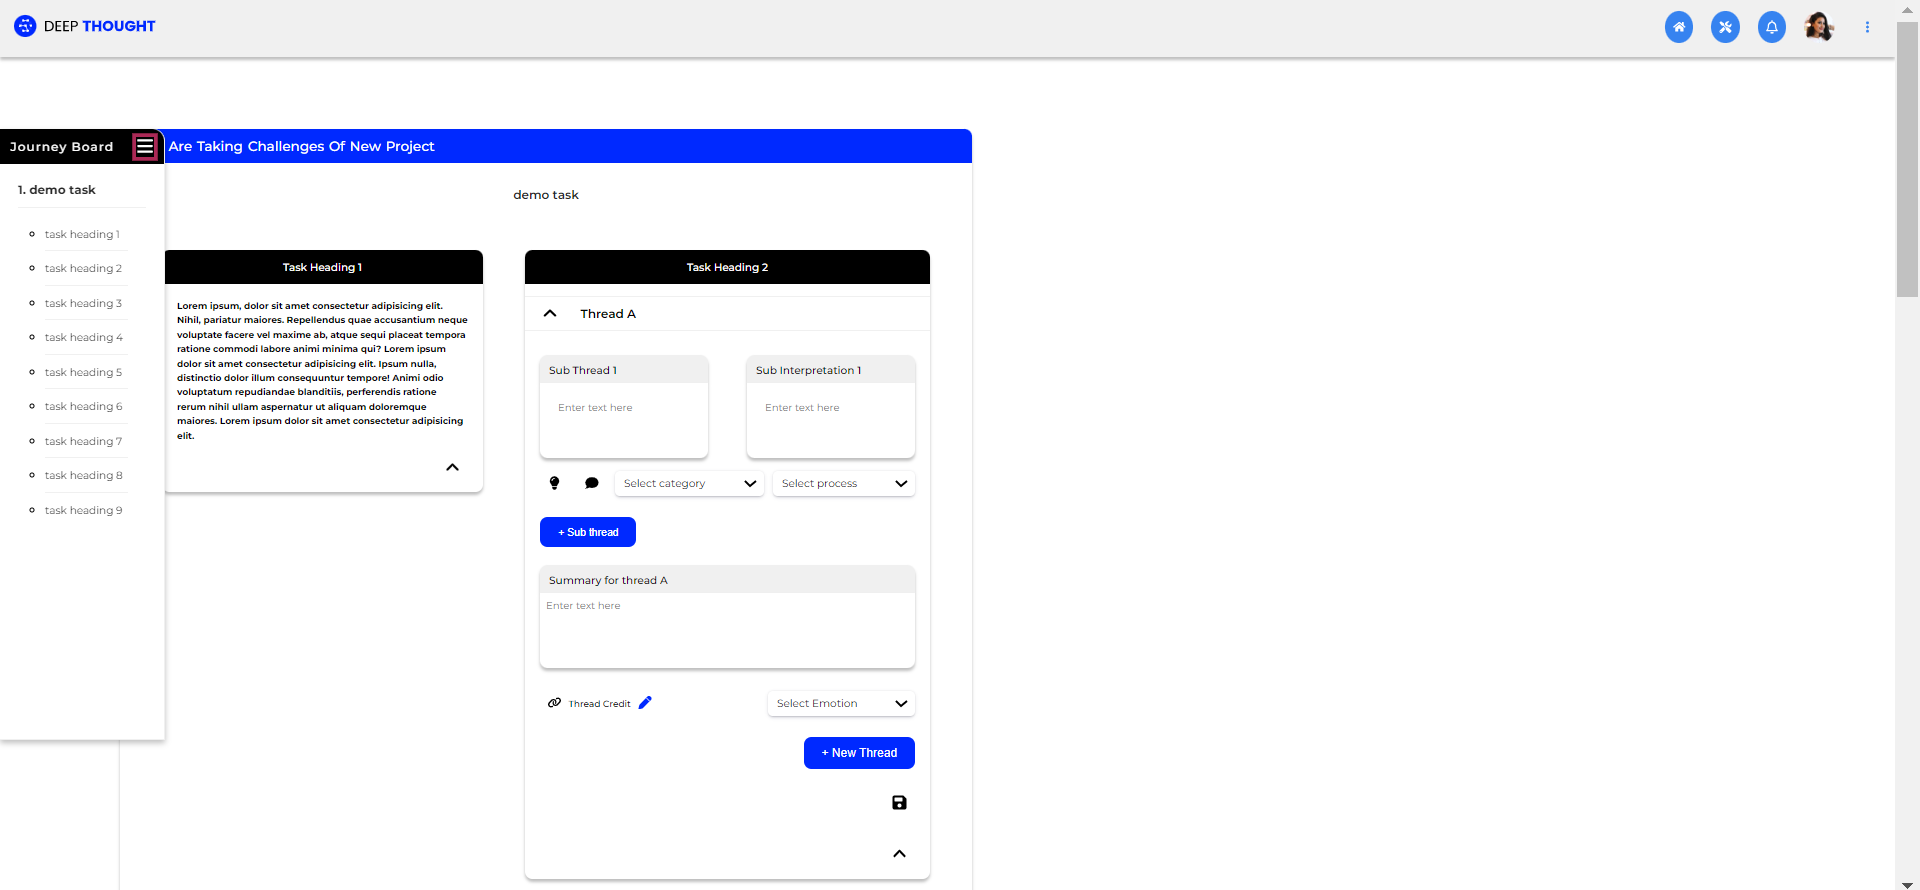
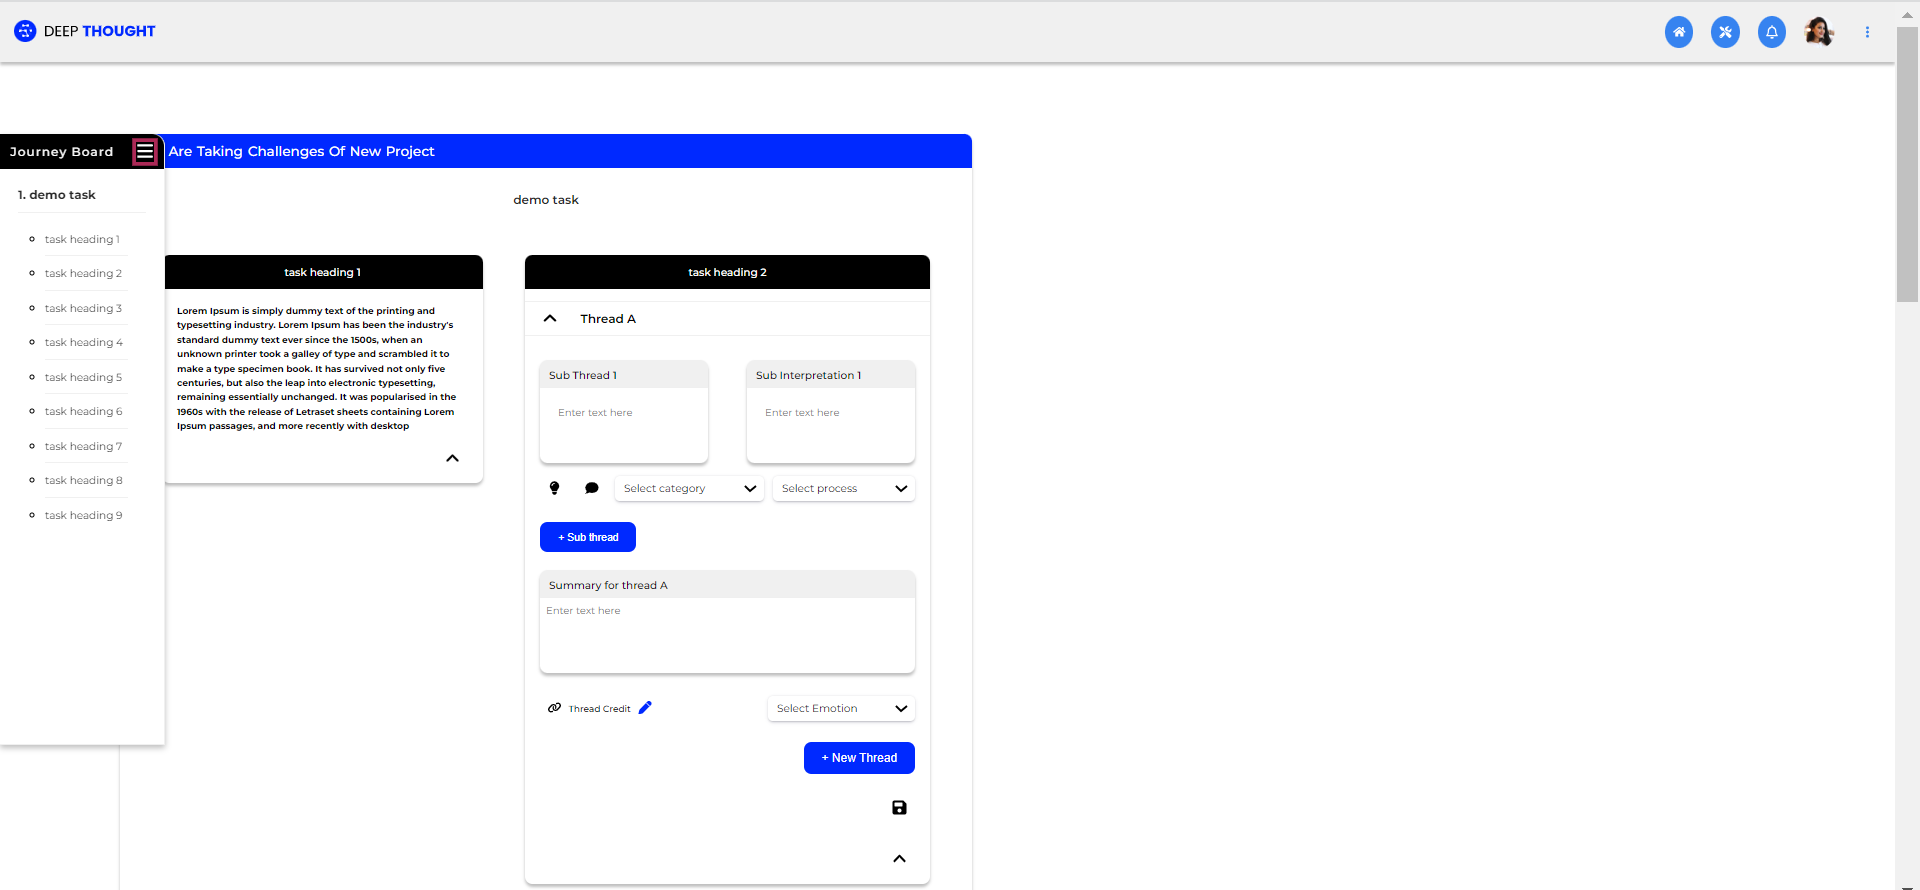
first commit 🚀

diff --git a/index.html b/index.html
@@ -152,20 +152,14 @@
         <p class="project-header">You are taking challenges of new project</p>
         <p class="project-name">demo task</p>
         <div class="project-task-wrapper">
-          <div class="project-task" id="task-heading-1">
-            <p class="task-heading">Task Heading 1</p>
+          <div
+            class="project-task"
+            id="task-heading-1"
+            data-asset="task heading 1"
+          >
+            <p class="task-heading"></p>
             <div class="task-content">
-              <p class="text">
-                Lorem ipsum, dolor sit amet consectetur adipisicing elit. Nihil,
-                pariatur maiores. Repellendus quae accusantium neque voluptate
-                facere vel maxime ab, atque sequi placeat tempora ratione
-                commodi labore animi minima qui? Lorem ipsum dolor sit amet
-                consectetur adipisicing elit. Ipsum nulla, distinctio dolor
-                illum consequuntur tempore! Animi odio voluptatum repudiandae
-                blanditiis, perferendis ratione rerum nihil ullam aspernatur ut
-                aliquam doloremque maiores. Lorem ipsum dolor sit amet
-                consectetur adipisicing elit.
-              </p>
+              <p class="text asset-inner"></p>
             </div>
             <button
               class="btn toggle-state-btn"
@@ -183,8 +177,12 @@
               </svg>
             </button>
           </div>
-          <div class="project-task" id="task-heading-2">
-            <p class="task-heading">Task Heading 2</p>
+          <div
+            class="project-task"
+            id="task-heading-2"
+            data-asset="task heading 2"
+          >
+            <p class="task-heading"></p>
             <div class="task-content">
               <div class="thread-wrapper">
                 <div class="thread-header">
@@ -348,8 +346,12 @@
               </svg>
             </button>
           </div>
-          <div class="project-task" id="task-heading-3">
-            <p class="task-heading">Task Heading 3</p>
+          <div
+            class="project-task"
+            id="task-heading-3"
+            data-asset="task heading 3"
+          >
+            <p class="task-heading"></p>
             <div class="task-content">
               <textarea
                 class="textarea-no-label"
@@ -373,13 +375,17 @@
               </svg>
             </button>
           </div>
-          <div class="project-task" id="task-heading-4">
-            <p class="task-heading">Task Heading 4</p>
+          <div
+            class="project-task"
+            id="task-heading-4"
+            data-asset="task heading 4"
+          >
+            <p class="task-heading"></p>
             <div class="task-content">
               <iframe
                 title="Information about big data from Wikipedia"
-                class="pdf"
-                src="https://drive.google.com/file/d/1Pxw83bTKE3KkOyYnwm1u6DSVjntSrNTp/preview?usp=sharing"
+                class="pdf asset-inner"
+                src=""
               ></iframe>
             </div>
             <button
@@ -398,8 +404,12 @@
               </svg>
             </button>
           </div>
-          <div class="project-task" id="task-heading-7">
-            <p class="task-heading">Task Heading 7</p>
+          <div
+            class="project-task"
+            id="task-heading-7"
+            data-asset="task heading 7"
+          >
+            <p class="task-heading"></p>
             <div class="task-content">
               <div class="task-wrapper">
                 <div class="thread-header">
@@ -535,13 +545,17 @@
               </svg>
             </button>
           </div>
-          <div class="project-task" id="task-heading-8">
-            <p class="task-heading">Task Heading 8</p>
+          <div
+            class="project-task"
+            id="task-heading-8"
+            data-asset="task heading 8"
+          >
+            <p class="task-heading"></p>
             <div class="task-content">
               <iframe
                 title="Motivation Audio"
-                class="audio"
-                src="https://drive.google.com/file/d/1dBBYQsz2yt3vc4YMkRmVC3nuTBbq2GON/preview"
+                class="audio asset-inner"
+                src=""
               ></iframe>
             </div>
             <button
@@ -560,16 +574,20 @@
               </svg>
             </button>
           </div>
-          <div class="project-task" id="task-heading-9">
-            <p class="task-heading">Task Heading 9</p>
+          <div
+            class="project-task"
+            id="task-heading-9"
+            data-asset="task heading 9"
+          >
+            <p class="task-heading"></p>
             <div class="task-content">
               <div class="video-wrapper">
                 <iframe
                   title="Teacher testimonial video"
                   width="46rem"
                   height="26rem"
-                  class="video"
-                  src="https://www.youtube.com/embed/s8H0Sx7jy7c"
+                  class="video asset-inner"
+                  src=""
                 ></iframe>
               </div>
             </div>

diff --git a/script.js b/script.js
@@ -1,8 +1,10 @@
+// MAKE THE SIDEBAR WORK
 const sidebarMenuBtn = document.querySelector(".btn--sidebar-menu");
 sidebarMenuBtn.addEventListener("click", () => {
   document.querySelector(".sidebar").classList.toggle("active");
 });
 
+// IMPLEMENTATION OF TOGGLE STATES OF THE ASSETS
 function toggleState(btn) {
   let id = btn.getAttribute("data-toggle");
   document.getElementById(id).classList.toggle("active");
@@ -24,3 +26,52 @@ threadToggleBtnEls.forEach((btn) => {
     toggleState(btn);
   });
 });
+
+let assetEls = document.querySelectorAll(".project-task");
+function addDynamicFunctionality(tasksJSON) {
+  assetEls.forEach((asset) => {
+    let assetName = asset.getAttribute("data-asset");
+    let assets = tasksJSON.tasks[0].assets;
+    for (let i = 0; i < assets.length; i++) {
+      if (assets[i].asset_title == assetName) {
+        let assetHeadingEl = asset.querySelector(".task-heading");
+        assetHeadingEl.innerHTML = assets[i].asset_title;
+        let assetInnerEl = asset.querySelector(".asset-inner");
+        if (
+          assets[i].display_asset_url != "" &&
+          assets[i].display_asset_url != null
+        ) {
+          assetInnerEl.src = assets[i].display_asset_url;
+        } else if (
+          assets[i].display_asset_video != "" &&
+          assets[i].display_asset_video != null
+        ) {
+          assetInnerEl.src = assets[i].display_asset_video;
+        } else if (
+          assets[i].display_asset_docs != "" &&
+          assets[i].display_asset_docs != null
+        ) {
+          assetInnerEl.src = assets[i].display_asset_docs;
+        } else if (
+          assets[i].display_asset_reflection != "" &&
+          assets[i].display_asset_reflection != null
+        ) {
+          assetInnerEl.innerHTML = assets[i].display_asset_reflection;
+        } else if (
+          assets[i].display_asset_reflection != "" &&
+          assets[i].display_asset_reflection != null
+        ) {
+          assetInnerEl.src = assets[i].display_asset_reflection;
+        }
+      }
+    }
+  });
+}
+
+// GETTING JSON USING FETCH API
+fetch("./tasks.json")
+  .then((response) => response.json())
+  .then((data) => {
+    addDynamicFunctionality(data);
+  })
+  .catch((error) => console.error(error));

diff --git a/style.css b/style.css
@@ -406,7 +406,7 @@ main {
 
 .project-task-wrapper {
   display: grid;
-  grid-template-columns: repeat(2, 1fr);
+  grid-template-columns: 1fr 1fr;
   grid-template-areas:
     "a b"
     ". b"

diff --git a/README.md b/README.md
@@ -1,4 +1,4 @@
-# Deep Thought HTML/CSS Web Designer Assignment (Task 1 - Web Page Creation)
+# Deep Thought - Agile SoftDev Front-end Developer Assignment
 
 ## Table of contents
 
@@ -9,30 +9,27 @@
 
 ## Problem Statement
 
+### TASK 1
+
 - Create the HTML/CSS code for the applicant's storyboard feature
 - FIGMA files are provided (single page, with two states)
 
+### TASK 2
+
+- Given: JSON objects and functionality detail
+- Todo: Execute a dynamic page with the functionality
+
 ## Screenshots
 
-![Desktop view displaying the header, sidebar and task headings 1 and 2 in the journey board](./images/desktop-view-1.png)
+![Desktop view of the journey board](./images/desktop-view.png)
 
-<br />
+![Desktop view if expanded sidebar](./images/active-state.png)
 
-![Desktop view displaying task headings 3 and 4 of journey board](./images/desktop-view-2.png)
+![](./images/desktop-view-2.png)
 
-<br />
+![](./images/desktop-view-3.png)
 
-![Desktop view displaying task heading 7 and 8 of the journey board](./images/desktop-view-3.png)
-
-<br />
-
-![Desktop view displaying task heading 9 of the journey board](./images/desktop-view-4.png)
-
-<br />
-
-![Active state of the sidebar in desktop view](./images/active-state.png)
-
-<br />
+![](./images/desktop-view-4.png)
 
 ## Build With
 
@@ -41,7 +38,7 @@
 - CSS Flexbox
 - CSS Grid
 - Desktop-first workflow
-- Vanilla JavaScript (to toggle between states)
+- Vanilla JavaScript
 - FontAwesome - For Icons
 
 ## Author
